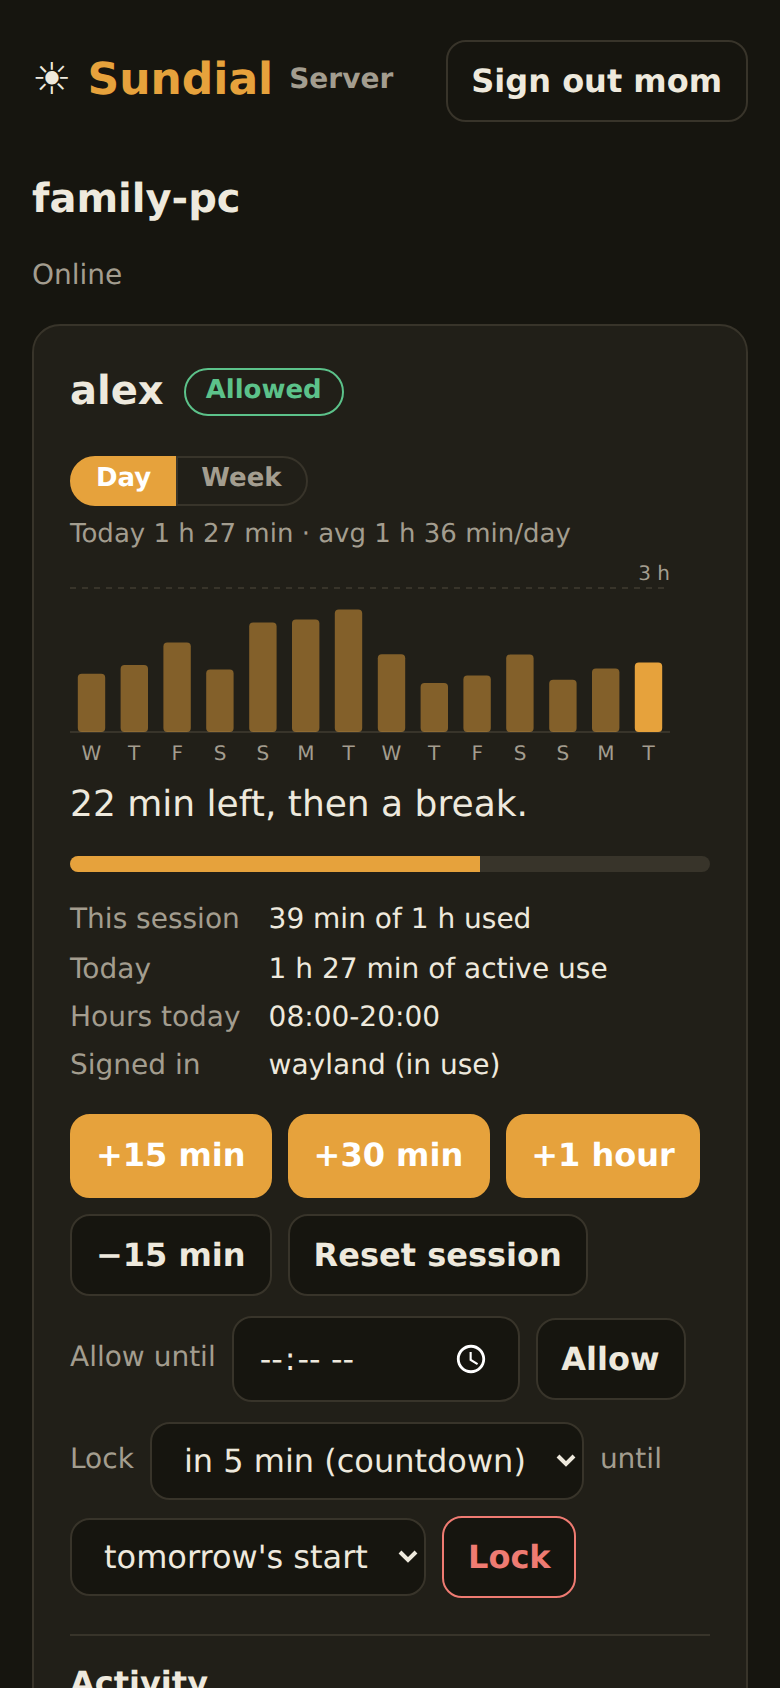
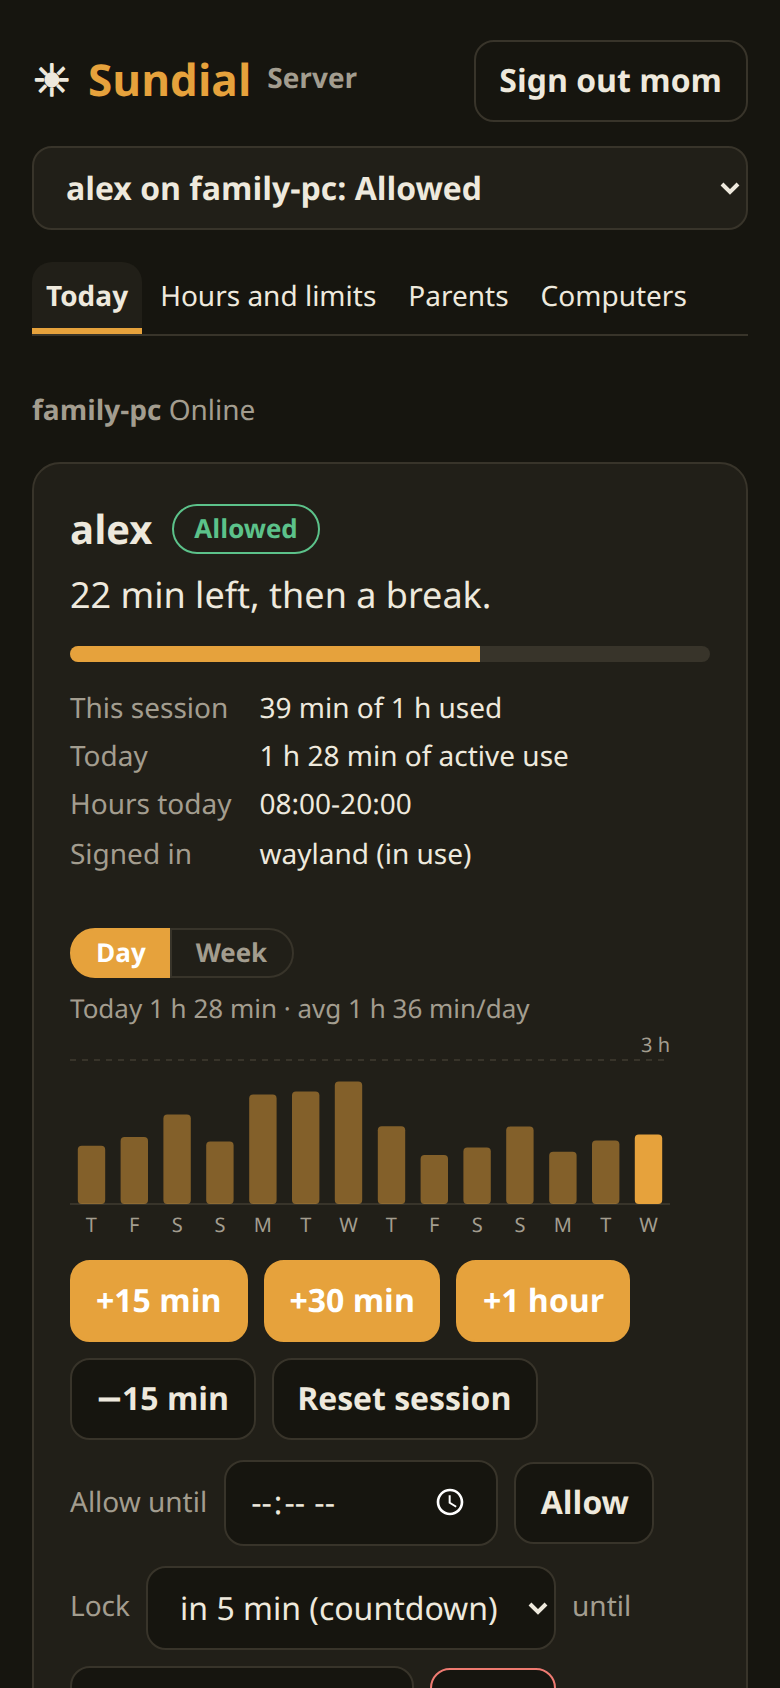
0.2.1: tabs like Sundial's own window, one child at a time

diff --git a/src/setup.rs b/src/setup.rs
@@ -64,9 +64,24 @@ pub async fn first_run(State(s): State<Setup>, req: Request, next: Next) -> Resp
 }
 
 pub fn page(title: &str, body: &str) -> Response {
+    let tab = match title {
+        "Computers" => "computers",
+        "Parents" | "Two-factor sign-in" => "parents",
+        _ => "",
+    };
+    // Setup has steps instead of tabs.
+    let (out, main) = if tab.is_empty() {
+        ("", body.to_string())
+    } else {
+        (
+            "<form method=post action=/logout><button>Sign out</button></form>",
+            sundial_web::panel(&crate::web::tabs(), tab, "", body),
+        )
+    };
+    let small = if tab.is_empty() { title } else { "Server" };
     let html = format!(
-        "<header><h1>☀ <span>Sundial</span> <small class=muted>{}</small></h1></header>{body}{}",
-        esc(title),
+        "<header><h1>☀ <span>Sundial</span> <small class=muted>{}</small></h1>{out}</header>{main}{}",
+        esc(small),
         if body.contains("<div class=copy") || body.contains("<div class='copy") {
             COPY_SCRIPT
         } else {
@@ -441,8 +456,7 @@ async fn parents_page(State(s): State<Setup>, uri: Uri, headers: HeaderMap) -> R
              <label class=field>New password <input name=password type=password autocomplete=new-password minlength={MIN_PASSWORD} required></label>\
              <label class=field>New password again <input name=again type=password autocomplete=new-password minlength={MIN_PASSWORD} required></label>\
              <div class=row><button class=primary>Change</button></div></form></details>\
-             <p><a href=/two-factor>Two-factor sign-in: {}</a></p>\
-             <p><a href=/>Back</a></p></section>",
+             <p><a href=/two-factor>Two-factor sign-in: {}</a></p></section>",
             flash(&uri),
             esc(&me),
             esc(&names(&s).join(", ")),
@@ -770,9 +784,10 @@ async fn pair_page(State(s): State<Setup>, uri: Uri, headers: HeaderMap) -> Resp
     } else {
         ""
     };
+    let home = if setup { "/" } else { "/?tab=computers" };
     let again = |label: &str| {
         format!(
-            "<form method=post action=/pair class=row>{hidden}<button>{label}</button><a href=/>{}</a></form>",
+            "<form method=post action=/pair class=row>{hidden}<button>{label}</button><a href=\"{home}\">{}</a></form>",
             if setup { "Finish" } else { "Back" }
         )
     };
@@ -782,7 +797,7 @@ async fn pair_page(State(s): State<Setup>, uri: Uri, headers: HeaderMap) -> Resp
              <li>Run this command:</li></ol>{}\
              <p class=muted>Or just the pairing code:</p>{}\
              <p class='muted wait-line'><i></i>Waiting for the computer. The code works once, for 15 minutes.</p>\
-             <div class=row><a class=plain href=/>{}</a></div>\
+             <div class=row><a class=plain href=\"{home}\">{}</a></div>\
              <script>setInterval(async()=>{{try{{const r=await fetch('/pair/state');if(r.redirected||(await r.text())!=='waiting')location.reload()}}catch(e){{}}}},3000)</script>",
             copy_box(
                 &format!("sudo sundial pair {} {code}", reached(&headers, &uri)),
@@ -792,8 +807,8 @@ async fn pair_page(State(s): State<Setup>, uri: Uri, headers: HeaderMap) -> Resp
             if setup { "Do this later" } else { "Back" }
         ),
         PairState::Done(name) => format!(
-            "<h2>{} is connected</h2><p>It appears on the main page within a few seconds.</p>\
-             <div class=row><a class=button href=/>Done</a></div>{}",
+            "<h2>{} is connected</h2><p>It appears under Computers within a few seconds.</p>\
+             <div class=row><a class=button href=\"{home}\">Done</a></div>{}",
             esc(&name),
             again("Add another")
         ),

diff --git a/src/web.rs b/src/web.rs
@@ -14,7 +14,7 @@ use std::sync::Arc;
 use sundial_core::proto::{AdminRequest, AdminResponse};
 use sundial_core::rules::fmt_when;
 use sundial_web::auth::Auth;
-use sundial_web::{App, Backend, Section, enc, esc, same_origin, signed_in};
+use sundial_web::{App, Backend, Section, Tab, enc, esc, same_origin, signed_in};
 
 struct Computers(Arc<Hub>);
 
@@ -81,7 +81,20 @@ impl Backend for Computers {
         "sudo sundial-server passwd NAME"
     }
 
-    fn extra(&self) -> String {
+    fn tabs(&self) -> Vec<Tab> {
+        tabs()
+    }
+
+    fn empty(&self) -> String {
+        "<h2>No children yet</h2><p>They appear here once a computer with Sundial is connected and manages an account. \
+         <a href=\"/?tab=computers\">Computers</a></p>"
+            .into()
+    }
+
+    fn tab(&self, id: &str) -> Option<String> {
+        if id != "computers" {
+            return None;
+        }
         let mut h = String::from(
             "<section class=card><h2>Computers</h2><form method=post action=/pair class=row>\
              <button class=primary>Add a computer</button></form>",
@@ -97,9 +110,24 @@ impl Backend for Computers {
                 state(&c, &now)
             ));
         }
-        h.push_str("</section><section class=card><h2>Parents</h2><p><a href=/parents>Logins and passwords</a></p></section>");
-        h
+        h.push_str("</section>");
+        Some(h)
     }
+}
+
+pub fn tabs() -> Vec<Tab> {
+    vec![
+        Tab {
+            id: "parents",
+            label: "Parents",
+            href: "/parents",
+        },
+        Tab {
+            id: "computers",
+            label: "Computers",
+            href: "/?tab=computers",
+        },
+    ]
 }
 
 #[derive(Clone)]
@@ -176,7 +204,7 @@ async fn remove(
             &format!(
                 "<section class=card><h2>Remove {}? <span class='pill {}'>{}</span></h2><p>{warn} Its limits stay in force.</p>\
                  <form method=post action=/remove class=row><input type=hidden name=id value=\"{}\"><input type=hidden name=confirm value=1>\
-                 <button class=danger>Remove</button><a class=plain href=/>Keep it</a></form></section>",
+                 <button class=danger>Remove</button><a class=plain href=\"/?tab=computers\">Keep it</a></form></section>",
                 esc(&c.name),
                 if c.online { "ok" } else { "wait" },
                 state(&c, &now),
@@ -189,5 +217,5 @@ async fn remove(
     } else {
         format!("err={}", enc("No such computer."))
     };
-    Redirect::to(&format!("/?{q}")).into_response()
+    Redirect::to(&format!("/?tab=computers&{q}")).into_response()
 }

diff --git a/README.md b/README.md
@@ -18,7 +18,7 @@ Setup, and adding a computer:
 
 ## How it works
 
-- One server can manage several computers. Each shows the same information and controls as Sundial's own page, activity included.
+- One server can manage several computers; choose a child at the top of the page. Each shows the same information and controls as Sundial's own page, activity included.
 - Only the server needs to be reachable. Nothing is opened on the child's computer or network.
 - A change made while a computer is offline waits for it. Extra time expires after 30 minutes, so it can't turn up the next day.
 - The pairing code works once, for 15 minutes. With a self-signed certificate it also lets the computer recognize the server.
